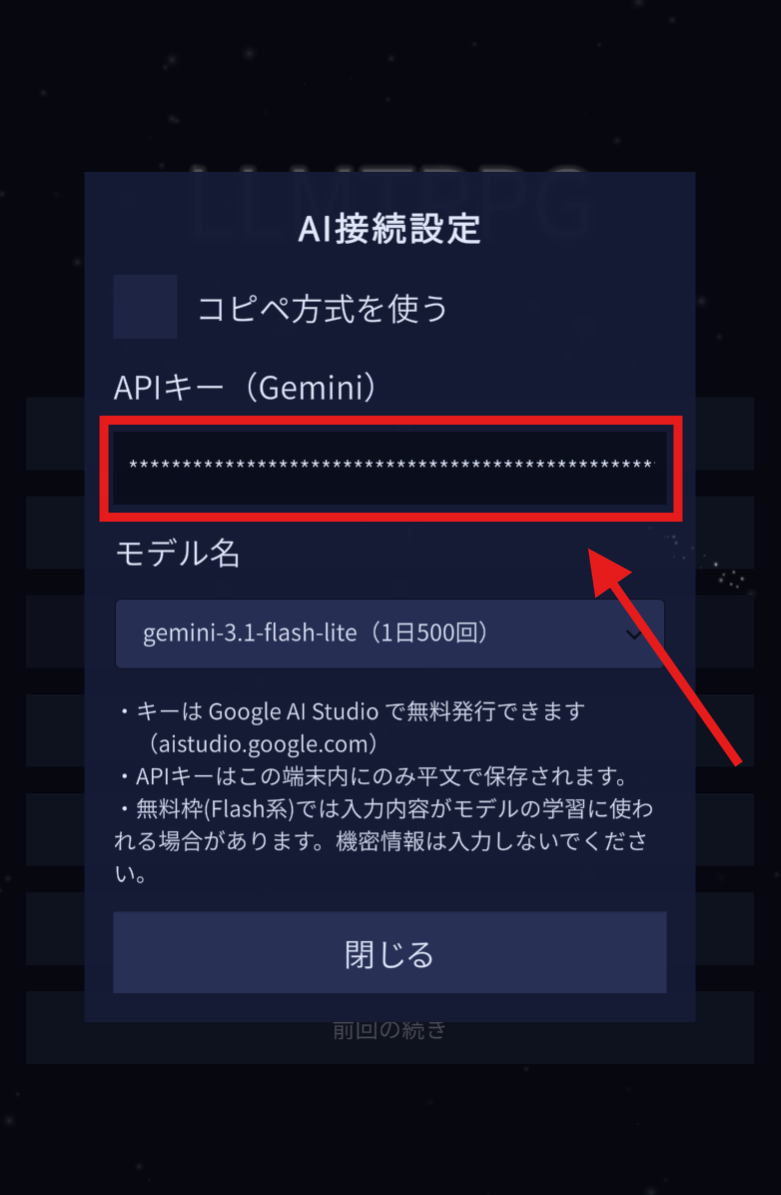
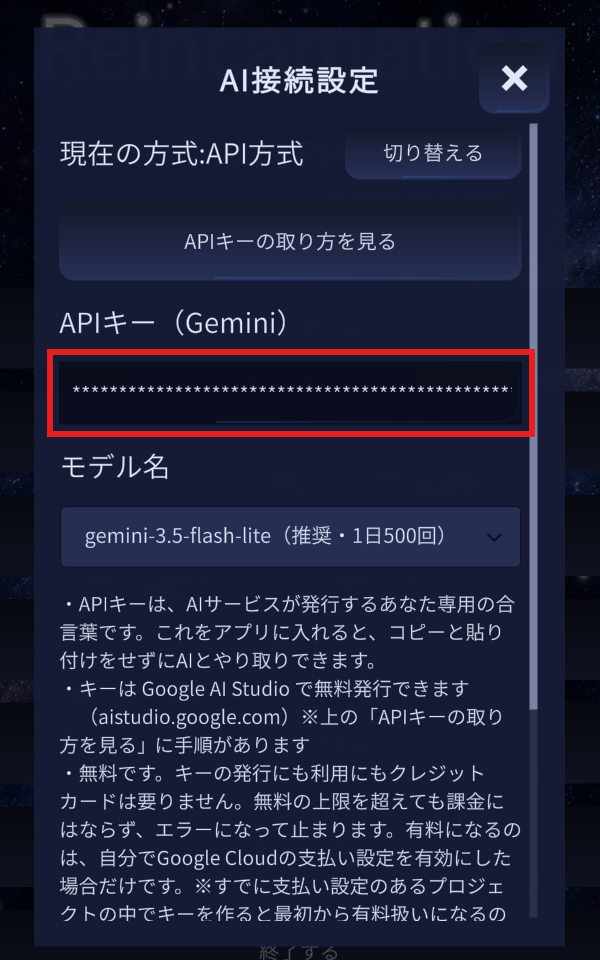
APIキーの取り方: キー名に用途を書く案内・手順5を今の画面（切り替える→API方式）で撮り直し・アプリ名をReincarnationへ
Claude-Session: https://claude.ai/code/session_014Eb8fsgGGGzxgkZtdL9aNh

diff --git a/index.html b/index.html
@@ -3,8 +3,8 @@
 <head>
 <meta charset="utf-8">
 <meta name="viewport" content="width=device-width, initial-scale=1">
-<title>APIキーの取り方 — LLMTRPG</title>
-<meta name="description" content="LLMTRPGで「API方式」を使うための、Gemini APIキーの取得手順です。無料でできます。">
+<title>APIキーの取り方 — Reincarnation -AI TRPG-</title>
+<meta name="description" content="Reincarnation -AI TRPG- で「API方式」を使うための、Gemini APIキーの取得手順です。無料でできます。">
 <style>
   :root{
     --ink:#070B1A;          /* 夜空の地 */
@@ -135,7 +135,7 @@
 
 <header>
   <div class="wrap">
-    <p class="eyebrow">LLMTRPG</p>
+    <p class="eyebrow">Reincarnation -AI TRPG-</p>
     <h1>APIキーの取り方</h1>
     <p class="lede">アプリの「API方式」を使うと、コピー＆貼り付けをせずに、ボタン1つで物語が進みます。<br>
       そのために必要な鍵（APIキー）は、Googleのサイトで<strong>無料</strong>で作れます。5分ほどで終わります。</p>
@@ -215,13 +215,13 @@
           <a class="zoom" href="images/phone-step3-create-button.png" target="_blank" rel="noopener"><img src="images/phone-step3-create-button.png" alt="スマホ。右上の「API キーを作成」ボタン"></a>
         </figure>
       </div>
-      <p style="margin-top:14px">小さな窓が開きます。<strong>名前もプロジェクトも、書かれているままで構いません</strong>。
-         そのまま <strong>「キーを作成」</strong> を押します。</p>
+      <p style="margin-top:14px">小さな窓が開きます。名前やプロジェクト名は書かれているままでも構いませんが、
+         <strong>「Reincarnation（AI TRPG）用」</strong>などの名前をつけておくと、後で見た時に何のキーだったかを思い出しやすいです。
+         決めたら <strong>「キーを作成」</strong> を押します。</p>
       <div class="pair">
         <figure class="pc">
           <span class="device">PC</span>
           <a class="zoom" href="images/step3-create-dialog.png" target="_blank" rel="noopener"><img src="images/step3-create-dialog.png" alt="「新しいキーを作成する」の窓"></a>
-          <figcaption>名前は後から見分けるための札です。変えても構いません。</figcaption>
         </figure>
         <figure class="phone">
           <span class="device">スマホ</span>
@@ -258,12 +258,18 @@
 
     <li>
       <p class="step-head"><span class="step-no">5</span>アプリに貼り付ける</p>
-      <p>LLMTRPG を開き、タイトル画面の <strong>「AI接続設定」</strong>
+      <p>Reincarnation を開き、タイトル画面の <strong>「AI接続設定」</strong>
          （または世界作成画面の「AI接続設定を変更」）を開きます。</p>
-      <p><strong>「コピペ方式を使う」のチェックを外す</strong>と、APIキーの欄が現れます。その欄をタップしてください。</p>
-      <figure>
-        <a class="zoom" href="images/step5-app-settings.png" target="_blank" rel="noopener"><img src="images/step5-app-settings.png" alt="アプリのAI接続設定。APIキーの欄をタップする"></a>
-      </figure>
+      <p>「現在の方式」の右にある<strong>「切り替える」</strong>を押して、<strong>「API方式」</strong>にします。</p>
+      <div class="pair">
+        <figure class="phone">
+          <a class="zoom" href="images/step5-app-switch.png" target="_blank" rel="noopener"><img src="images/step5-app-switch.png" alt="アプリのAI接続設定。「切り替える」を押す"></a>
+        </figure>
+        <figure class="phone">
+          <a class="zoom" href="images/step5-app-settings.png" target="_blank" rel="noopener"><img src="images/step5-app-settings.png" alt="API方式にするとAPIキーの欄が現れる。その欄をタップする"></a>
+        </figure>
+      </div>
+      <p style="margin-top:14px">API方式にすると<strong>「APIキー（Gemini）」の欄</strong>が現れます。その欄をタップしてください。</p>
       <p>入力の窓が開くので、<strong>「貼り付け」</strong>を押し、続けて <strong>「確定」</strong> を押します。</p>
       <figure>
         <a class="zoom" href="images/step5-app-paste.png" target="_blank" rel="noopener"><img src="images/step5-app-paste.png" alt="入力ウィンドウの「貼り付け」ボタン"></a>
@@ -276,7 +282,7 @@
 
   <h2>無料で使える回数について</h2>
   <p>Geminiの無料枠は<strong>モデルごとに1日の回数が決まっています</strong>。回数の多いモデルもあれば、1日20回ほどのモデルもあります。</p>
-  <p>アプリのモデル選択には、その目安が添えてあります（例:「gemini-3.1-flash-lite（1日500回）」）。たくさん遊ぶ日は、回数の多い「Flash Lite」系を選ぶと安心です。
+  <p>アプリのモデル選択には、その目安が添えてあります（例:「gemini-3.5-flash-lite（推奨・1日500回）」）。たくさん遊ぶ日は、回数の多い「Flash Lite」系を選ぶと安心です。
      回数を使い切っても、翌日には戻ります（その日はコピペ方式に切り替えて続けることもできます）。</p>
   <div class="note alert">
     <strong>無料枠では、入力した内容がAIの学習に使われる場合があります。</strong>
@@ -308,7 +314,7 @@
   </dl>
 
   <footer>
-    LLMTRPG — ほかほかぱんけーき<br>
+    Reincarnation -AI TRPG- — ほかほかぱんけーき<br>
     <a href="privacy.html">プライバシーポリシー</a><br>
     このページはアプリの利用者向けの案内です。
   </footer>
